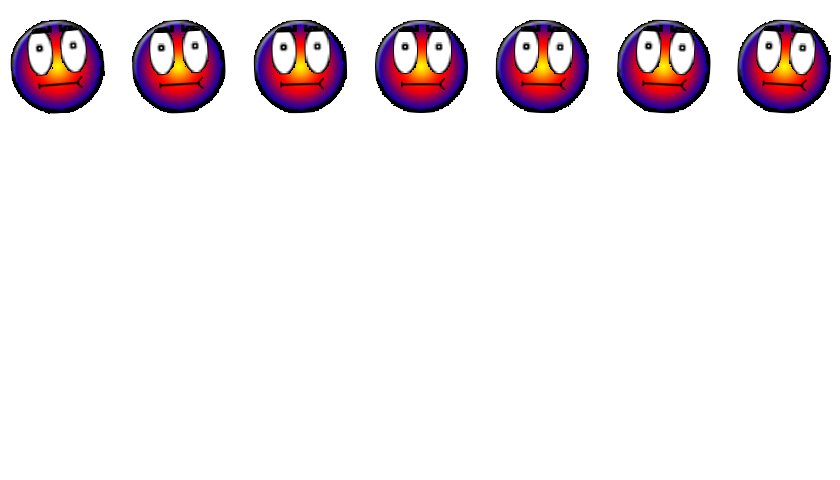
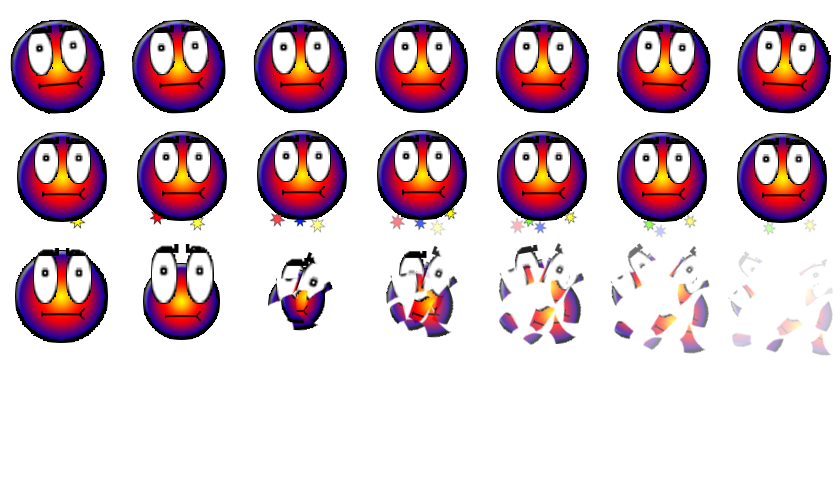
FLug UND Platzanimationen!

diff --git a/core/src/com/aau/auris/game/Asset/AssetLoader.java b/core/src/com/aau/auris/game/Asset/AssetLoader.java
@@ -100,10 +100,10 @@ public class AssetLoader
 			parachuteFrames1[i] = tmp[0][i];
 			parachuteFrames2[i] = tmp[1][i];
 			parachuteFrames3[i] = tmp[2][i];
-			ballBoredFrames[i]=tmpDefault[0][i];
-			greenballBoredFrames[i]= tmpGreen[0][i];
-			yellowballBoredFrames[i]= tmpYellow[0][i];
-			redballBoredFrames[i]= tmpRed[0][i];
+			ballBoredFrames[i]=tmpDefault[2][i];
+			greenballBoredFrames[i]= tmpGreen[2][i];
+			yellowballBoredFrames[i]= tmpYellow[2][i];
+			redballBoredFrames[i]= tmpRed[2][i];
 			
 		}
 		
@@ -114,13 +114,13 @@ public class AssetLoader
 		parachuteBallAnimation3 = new Animation(0.08f, parachuteFrames3);
 		parachuteBallAnimation3.setPlayMode(Animation.PlayMode.LOOP_PINGPONG);
 		ballDefault_animation = new Animation(0.08f, ballBoredFrames);
-		ballDefault_animation.setPlayMode(Animation.PlayMode.LOOP_PINGPONG);
+		ballDefault_animation.setPlayMode(Animation.PlayMode.NORMAL);
 		ballskinGreen_animation = new Animation(0.08f, greenballBoredFrames);
-		ballskinGreen_animation.setPlayMode(Animation.PlayMode.LOOP_PINGPONG);
+		ballskinGreen_animation.setPlayMode(Animation.PlayMode.NORMAL);
 		ballskinYellow_animation=new Animation(0.08f, yellowballBoredFrames);
-		ballskinYellow_animation.setPlayMode(Animation.PlayMode.LOOP_PINGPONG);
+		ballskinYellow_animation.setPlayMode(Animation.PlayMode.NORMAL);
 		ballskinRed_animation = new Animation(0.08f, redballBoredFrames);
-		ballskinRed_animation.setPlayMode(Animation.PlayMode.LOOP_PINGPONG);
+		ballskinRed_animation.setPlayMode(Animation.PlayMode.NORMAL);
 		ballskin4_animation = new Animation(0.08f, parachuteFrames3);
 		ballskin4_animation.setPlayMode(Animation.PlayMode.LOOP_PINGPONG);
 
